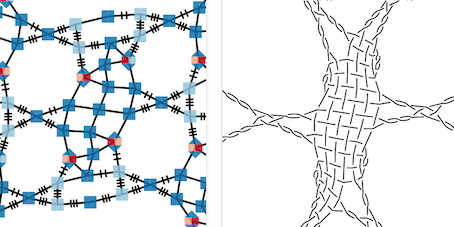
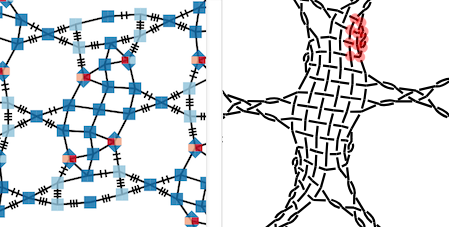
examples for color code, other details

Changed region(s): [[0.0312, 0.0, 1.0, 1.0], [0.0312, 0.5242, 0.0624, 0.5859], [0.0312, 0.4626, 0.0624, 0.4934]]

diff --git a/docs/color-rules.md b/docs/color-rules.md
@@ -46,38 +46,65 @@ Colors for the twists fill blank shapes in the following table.
 Crosses
 -------
 
-| | |
-| :---: | :--- |
-| {% include circle.svg color="black" %} | 1. just a single cross |
-| {% include polyline.svg points="14,4 4,4 4,24 24,24 24,4 14,4 14,24" %} | 2. cross - twist(s) - cross |
-| {% include polyline.svg points="14,4 4,14 14,24 24,14 14,4 14,24 24,14 4,14" %} | 3. cross - twist(s) - cross - twist(s) - cross |
-| {% include 4c.svg width="22" height="22" %} | 4. cross - twist(s) - cross - twist(s) - cross - twist(s) - cross; e.g. brussels stitch: ctct-pin-ctct or winkie pins |
-| {% include rectangle.svg width="7" height="14" %} | `ctctctc` and longer plaits |
-| {% include rectangle.svg width="14" height="14" %} | `cllcrrcllc` and longer or mirrored tallies |
-| ![](images/other-stitches.png) | none of the above |
+| |                                                                                                                                 |
+| :---: |:--------------------------------------------------------------------------------------------------------------------------------|
+| {% include circle.svg color="black" %} | 1. just a single cross                                                                                                          |
+| {% include polyline.svg points="14,4 4,4 4,24 24,24 24,4 14,4 14,24" %} | 2. cross - twist(s) - cross                                                                                                     |
+| {% include polyline.svg points="14,4 4,14 14,24 24,14 14,4 14,24 24,14 4,14" %} | 3. cross - twist(s) - cross - twist(s) - cross                                                                                  |
+| {% include 4c.svg width="22" height="22" %} | 4. cross - twist(s) - cross - twist(s) - cross - twist(s) - cross; <br> e.g. brussels stitch: ctct-pin-ctct or winkie pins |
+| {% include rectangle.svg width="7" height="14" %} | `ctctctc` and longer plaits                                                                                                     |
+| {% include rectangle.svg width="14" height="14" %} | `cllcrrcllc` and longer or mirrored tallies                                                                                     |
+| ![](images/other-stitches.png) | none of the above                                                                                                               |
 
-Examples
---------
+N.B: Brussels stitches and winkie pins are single stitches for GroundForge:
+they are manipulations with only two pairs.
+This phenomenon is also shown below.
+
+Examples of stitches
+--------------------
 
 The following examples combine the color rules relating to _twists_ with the shapes representing the _crosses_.
 Note that each `t` of the captions is translated into an `l` plus `r` in the drawings.
 
 ![](images/examples.svg)
 
-With [B3.24](GroundForge/droste?source=mix4snow&source=mix4snow&tile=17-w,rx-x,rx-x,rx31,-w17,-xrx,-xrx,31rx,17-w,rx-x,rx-x,rx31,-w17,-xrx,-xrx,31rx&f8=llttcrr&f16=llttcrr&footside=-----x,-----x,-----x,-----x,-----4,-----r,-----r,-----r,-----x,-----x,-----x,-----x,-----4,-----r,-----r,-----r&=undefined&u8=rrttcll&u16=rrttcll&headside=x,x,x,8,r,r,r,r,x,x,x,8,r,r,r,r&shiftColsSW=0&shiftRowsSW=16&shiftColsSE=4&shiftRowsSE=8&patchWidth=14&patchHeight=35&i1=rc&h1=ctc&g1=lcr&h2=crclcr&n5=llctt&i5=lc&g5=ct&j9=lc&h9=ctc&j13=ctc&g13=lc&g16=ctc&h16=lcr&h4=ct&h8=cr&g8=ctc&g9=lc&g12=lc&i12=ctc&j12=lcr&i13=lcr&j16=lc&j4=cr&i4=ctc&j5=ctc&i8=lc&j8=lc&i16=lcr&g4=lcr&droste2=h160=g42=j120=i162=cttc,g160=h161=g41=h13=g80=h80=g121=h93=i120=j121=i161=j133=i140=i40=i81=j53=j40=c,i122=g162=i42=g82=tctc,j131=h11=j51=h91=ctct,h162=h12=h81=h92=g83=g163=j122=j132=i123=j52=i43=j41=crc,g161=g40=h10=g81=g120=h90=i121=i160=j130=i41=i141=i80=j50=clc,i123=i43=g163=g83=lcrcl,j130=j50=h10=h90=rclcr,h13=j133=j53=h93=crr,i161=i81=g41=g121=cll,h161=h80=j40=j121=rrc,i120=i40=g160=g80=llc,u82=u162=ctc,u81=u161=tttttttctctttttt,u83=u163=tttttctc,u80=u160=tttctc#)
-from [Viele Gute Gründe](MAE-gf/docs/literature)
-we compare another solution for unorthodox stitches with the system developed for GroundForge.
+Examples of patterns
+--------------------
+
+To illustrate unorthodox stitches, we compare the system developed for GroundForge 
+with [B3.24](GroundForge/droste?source=mix4snow&source=mix4snow&tile=17-w,rx-x,rx-x,rx31,-w17,-xrx,-xrx,31rx,17-w,rx-x,rx-x,rx31,-w17,-xrx,-xrx,31rx&f8=llttcrr&f16=llttcrr&footside=-----x,-----x,-----x,-----x,-----4,-----r,-----r,-----r,-----x,-----x,-----x,-----x,-----4,-----r,-----r,-----r&=undefined&u8=rrttcll&u16=rrttcll&headside=x,x,x,8,r,r,r,r,x,x,x,8,r,r,r,r&shiftColsSW=0&shiftRowsSW=16&shiftColsSE=4&shiftRowsSE=8&patchWidth=14&patchHeight=35&i1=rc&h1=ctc&g1=lcr&h2=crclcr&n5=llctt&i5=lc&g5=ct&j9=lc&h9=ctc&j13=ctc&g13=lc&g16=ctc&h16=lcr&h4=ct&h8=cr&g8=ctc&g9=lc&g12=lc&i12=ctc&j12=lcr&i13=lcr&j16=lc&j4=cr&i4=ctc&j5=ctc&i8=lc&j8=lc&i16=lcr&g4=lcr&droste2=h160=g42=j120=i162=cttc,g160=h161=g41=h13=g80=h80=g121=h93=i120=j121=i161=j133=i140=i40=i81=j53=j40=c,i122=g162=i42=g82=tctc,j131=h11=j51=h91=ctct,h162=h12=h81=h92=g83=g163=j122=j132=i123=j52=i43=j41=crc,g161=g40=h10=g81=g120=h90=i121=i160=j130=i41=i141=i80=j50=clc,i123=i43=g163=g83=lcrcl,j130=j50=h10=h90=rclcr,h13=j133=j53=h93=crr,i161=i81=g41=g121=cll,h161=h80=j40=j121=rrc,i120=i40=g160=g80=llc,u82=u162=ctc,u81=u161=tttttttctctttttt,u83=u163=tttttctc,u80=u160=tttctc#)
+from [Viele Gute Gründe](MAE-gf/docs/literature).
 
 ![](images/B3-24.svg)
 
-The example below is a variation of 
-[E12](/GroundForge/stitches?whiting=E12_P167&patchWidth=20&patchHeight=20&h1=ct&c1=ctctt&a1=ctctt&i2=ctrct&h2=ct&g2=ct&f2=ct&e2=ctlct&h3=ct&g3=ct&f3=ct&b3=ctctt&i4=ctrct&h4=ct&g4=ct&f4=ct&e4=ctlct&f5=ct&c5=ctct&a5=ctct&j6=ctrct&i6=ct&h6=ct&g6=ctct&f6=ct&e6=ct&d6=ctlct&i7=ct&e7=ct&j8=ct&i8=ct&h8=ctlct&f8=ctrct&e8=ct&d8=ct&c8=ctlct&a8=ctrct&j9=ct&d9=ct&j10=ct&i10=ctlct&e10=ctrct&d10=ct&c10=ct&b10=ctct&a10=ct&tile=7-4----7--,x-xwaaa1cy,-5-x-788-x,y-wxa111cx,7-4--7----,x-x2a1cdd6,x-x-7---4-,8-1a1c-b8d,---7-x-x-4,d3a1cx-xb8&footsideStitch=ctctt&tileStitch=ct&headsideStitch=ctctt&shiftColsSW=-5&shiftRowsSW=10&shiftColsSE=5&shiftRowsSE=10),
-[A2](/GroundForge/stitches?whiting=A2_P71&tile=831,4-7,-5-&headside=d,-,c,-&footside=b,-,a,-&footsideStitch=ctctt&patchWidth=9&patchHeight=10&k1=lctctt&d1=ct&c1=ctct&b1=ct&a1=rctctt&d2=ctct&b2=ctct&k3=lctctt&c3=ctct&a3=rctctt&tileStitch=ctct&headsideStitch=ctctt&shiftColsSW=-2&shiftRowsSW=2&shiftColsSE=2&shiftRowsSE=2) and
-[F9](/GroundForge/stitches?whiting=F9_P185&patchWidth=26&patchHeight=26&m1=ctc&e1=ctc&o3=llcttctt&k3=cttctt&g3=ctcrrrctc&e3=ctc&c3=ctcllctc&g4=ctc&e4=ctc&i5=llctctt&g5=ctc&e5=ctc&c5=ctc&a5=rrctctt&e6=ctc&c6=ctc&o7=cttctt&k7=cttctt&g7=ctcrrctcrr&e7=ctc&c7=ctcllctcll&tile=--x-5-x---x-c-x-,-----w-----y-w--,--g-g-c---b---c-,---w8-mv-yx---xw,h-g-f-f-5-x---x-,-w8-mv---w-----y,--f-f-c---c---b-,--xw--x---xw-yx-&footsideStitch=ctctt&tileStitch=ctc&headsideStitch=ctctt&shiftColsSW=-8&shiftRowsSW=8&shiftColsSE=8&shiftRowsSE=8) 
-from the sampler by [Gertrude Whiting](gw-lace-to-gf).
-It shows the difference between the tick marks for double and triple twists. The pattern shows also variations of winkie pins.
+An ![](images/single-stitch.png) in a Groungorge pair diagram may be an ![](images/double-stitch.png) in a traditional pair diagram.
+This is illustrated with [highlighted](/GroundForge-help/clips/color) stitches in the thread diagrams of the following examples.
+
+Below a [variation](https://d-bl.github.io/GroundForge/stitches?whiting=F9_P185&patchWidth=26&patchHeight=26&m1=ctc&e1=ctc&o3=llcttctt&k3=cttctt&g3=ctcrrrctc&e3=ctc&c3=ctcllctc&g4=ctc&e4=ctc&i5=llctctt&g5=ctc&e5=ctc&c5=ctc&a5=rrctctt&e6=ctc&c6=ctc&o7=cttctt&k7=cttctt&g7=ctcrrctcrr&e7=ctc&c7=ctcllctcll&tile=--x-5-x---x-c-x-,-----w-----y-w--,--g-g-c---b---c-,---w8-mv-yx---xw,h-g-f-f-5-x---x-,-w8-mv---w-----y,--f-f-c---c---b-,--xw--x---xw-yx-&footsideStitch=ctctt&tileStitch=ctc&headsideStitch=ctctt&shiftColsSW=-8&shiftRowsSW=8&shiftColsSE=8&shiftRowsSE=8)
+of F9 from the sampler by [Gertrude Whiting](gw-lace-to-gf).
+It shows the difference between the tick marks for double and triple twists. 
+The pattern shows also variations of winkie pins. One is highlighted red:
+a cloth stitch, twists around a pin (not mastered by GroundForge) 
+and a cloth stitch that starts the returning row. 
+See also the last one in the _examples of stitches_ above.
 
 ![](images/F9-variation.png) ![GW sampler F9](images/gw-F9.png)
+
+The following example follows the transformation from a thread diagram
+used as pair diagram to thread diagram, a [Drosste effect](Droste-effect).
+The last diagram is a traditional pair diagram for the eyed spider.
+In the step from thread to pair diagram the double twists are reduced to a single stitch
+because everything done with just two pairs is a single stitch in GroundForge.
+The same would apply to a doubled cross.
+The second thread diagram highlights a Brussels stitch with a blue color.
+It creates a cloth stitch at the end of ona spider and another cloth stitch
+at the beginning of the next spider and two twisted legs in between.
+The other legs are crossed in the GroundForge pair diagram but by applying just twists
+to that stitch we get parallel twisted legs.
+The red highlights represent a single stitch in the GroundForge pair diagram
+while it represents two stitches in the traditional pair diagram for an eyed spider.
+
+![](images/collapsed-stitches.png)
 
 Notes
 -----
@@ -86,5 +113,5 @@ The color scheme was selected from [colorbrewer](https://colorbrewer2.org/?type=
 because of its color-blind friendly properties.
 
 Not having twists between stitches encoded in the colors of the stitches, 
-makes the diagrams agnostic to the open (start with twist) and close (end with twist) method.
-The tooltip when hovering over a stitch may have the twist one either one of the stitches. 
+makes the diagrams agnostic to the open (start with twist) and closed (end with twist) method.
+The tooltip (when hovering over a stitch) are not agnostic: they may have the twist one either one of the stitches. 

diff --git a/docs/snow-mix/index.md b/docs/snow-mix/index.md
@@ -7,8 +7,7 @@ Toc
 ===
 * [Mix snowflakes into new Grounds](#mix-snowflakes-into-new-grounds)
   * [Stitches for six pair snowflakes](#stitches-for-six-pair-snowflakes)
-    * [Collapsed stitches](#collapsed-stitches)
-    * [Footsides](#footsides)
+  * [Footsides](#footsides)
   * [Recipes for the mixer](#recipes-for-the-mixer)
     * [Modify a given recipe](#modify-a-given-recipe)
     * [Even numbers of stitches](#even-numbers-of-stitches)
@@ -21,6 +20,7 @@ Mix snowflakes into new Grounds
 ===============================
 
 On the [snow mixer] you can create diagrams for (new) grounds with a mix of 2x2 snowflakes.
+Below the form you find links to the most important subjects to have fun with the mixer.
 
 ![](sample.png?align=left)
 On the left a sample of lace by Babette.
@@ -40,48 +40,34 @@ Stitches for six pair snowflakes
 --------------------------------
 
 The mixer generates thread diagrams for three pair stitches.
-Using these thread diagram as a pair diagram,
+Using such a thread diagram as a pair diagram,
 allows to assign stitches for six pair snowflakes,
-spiders or whatever needing six pairs.
+spiders or whatever needs six pairs.
 
 ![](default-pattern.png?align=right)
 On the right you see the default pattern of the [snow mixer].
 
 * Click the button _pair diagrams from thread diagrams_ on the mixer page,
-  and you will see the screenshot below with an empty thread diagrams.
+  and you will see the screenshot below with an empty thread diagram.
 * Click wands to (re)generate diagrams.
 * [Play](/GroundForge-help/Icons)
   with the size of the panels and move the content as you see convenient.
 * The mouse in the screenshot points to the stitch that is highlighted with green in the stitches panel.
-* You can edit the stitches panel manually or use (a variation of) a predefined stitch above _Step 1_.
-
-See also the _show help links_ button of this _pair diagrams from thread diagrams_ page.
+* You can set defaults manually at the start of the stitches panel and add lines at the bottom 
+  with (variations of) [predefined stitches](io/GroundForge-help/clips/flip) above _Step 1_.
 
 ![](default-droste.png)
 
 ![](resume-animation.png?align=right)
-For a pretty screenshot or PDF you can resume the animation for a less stretched look.
+For a less stretched look (in a screenshot or PDF) you can resume the animation.
 
-When you changed the pattern on the snow mixer,
-some stitches might have their ID changed, or they are no longer applicable at all.
-
-### Collapsed stitches
-
-We might encounter repeated actions in a stitch.
-Repeated twists are the most common in traditional lace.
-The sample on the left below shows a repeated cross on both sides.
-For GroundForge anything done with the same two pairs is a single stitch.
-We see that below when we compare a traditional pair diagram with the  GroundForge pair diagram for step 1.
-We can counteract that effect with a _ctctttctc_ as shown on the right. 
-You might want this stitch for the vertical connection between two spiders or snowflakes.
-
-| thread diagram<br>on mixer page | traditional<br>pair diagram   | step 1 on <br>_pair diagrams from thread diagrams_ |
-|:-------------------------------:|-------------------------------|:--------------------------------------------------:|
-|       ![](double-cross.png)     | ![](traditional-spider.png)   |   ![](un-doubled.png)  &nbsp; ![](re-doubled.png)  |
+Please note the spider example for the [color rules](/GroundForge-help/color-rules)
+and the page specific help links.
 
 ![](footsides.png?align=right)
 
-### Footsides
+Footsides
+---------
 
 A footside that works for one set of recipes may not work for another.
 This is caused by footside twists that may or may not collapse

diff --git a/docs/Reuse.md b/docs/Reuse.md
@@ -14,11 +14,11 @@ The following suggestions assume a proficient knowledge of html.
 Option 2 and 3 even require the possibility to deploy your own custom JavaScripts,
 and knowledge how to write them.
 
-### 1. Just a link
-The most simple option is a screen shot snippet, description or name of a specific pattern 
-(or your own diagram) and the corresponding link.
-Remember to use the ![link](/GroundForge/images/link.png) button before you 
-copy-paste the address of a specific pattern.
+### 1. PDF or Link
+The most reliable and future-proof option is to share a PDF.
+For a linked screenshot snippet on your website you can use the link in the 
+[generated PDF](/GroundForge-help/clips/print-as-pf).
+Please note the warning for the droste page.
 
 ### 2. Convenience forms
 A convenience form can create a dynamic link to a base pattern.

diff --git a/docs/clips/print-as-pdf.md b/docs/clips/print-as-pdf.md
@@ -21,7 +21,11 @@ The soundless video clip shows Firefox, details may vary by browser.
   The status bar at the bottom of the bowser shows the target.
   Once the document is saved, this link goes back to the online page.
 
+**Warning**  
 A _thread diagram as pair diagram_ page, may not restore completely.
 Open the document in your browser, and you can copy the content of the stitches panel,
 provided you made it big enough to show the full content before saving.
+Better prepare before saving: follow the link  _pair diagram_ 
+on that page follow the link _pair diagram for thread diagram_ 
+now it should be safe to save the page.
 

diff --git a/docs/_includes/Sidebar.md b/docs/_includes/Sidebar.md
@@ -13,7 +13,7 @@
 * [Icons](/GroundForge-help/Icons)
 * [Drop/restore stitches](/GroundForge-help/Replace) ![-](/GroundForge-help/images/toggle-stitch.png)
 * [Tile layout](/GroundForge-help/Change-tiles) ![-](/GroundForge-help/images/brick-menu-icon.png)
-* [Reload](/GroundForge-help/Icons) ![-](/GroundForge/images/wand.png)
+* [Reload/resume](/GroundForge-help/Icons) ![-](/GroundForge/images/wand.png) ![-](/GroundForge/images/play.png)
 * [Panel size](/GroundForge-help/Icons)
   ![-](/GroundForge/images/maximize.png)
   ![-](/GroundForge/images/reset-dimensions.png)

diff --git a/docs/Icons.md b/docs/Icons.md
@@ -7,8 +7,10 @@ The purpose/meaning of buttons/icons in short
 =============================================
 
 ![wand](/GroundForge/images/wand.png)
-**[Reload](Undo)**  
-The wand (re)loads a diagram.
+**Reload** 
+![resume](/GroundForge/images/play.png)
+**Resume**  
+The wand (re)loads a diagram. The play button resumes the animation.
 
 ![](images/toggle-stitch.png) **Stitch**  
 The character inside the circle determines the origins 

diff --git a/docs/footsides.md b/docs/footsides.md
@@ -11,7 +11,7 @@ When hovering with your mouse over the last one, it gives as title "winkie pin".
 ![](images/stitch-samples.png)
 
 Note that pins can be indicated with a `p` before a `t`,
-they are rarely rendered where the should be.
+they are rarely rendered where they should be.
 Therefore, no pin is defined in this winkie pin.
 
 GroundForge considers every sequence of actions with only two pairs as a single stitch,
